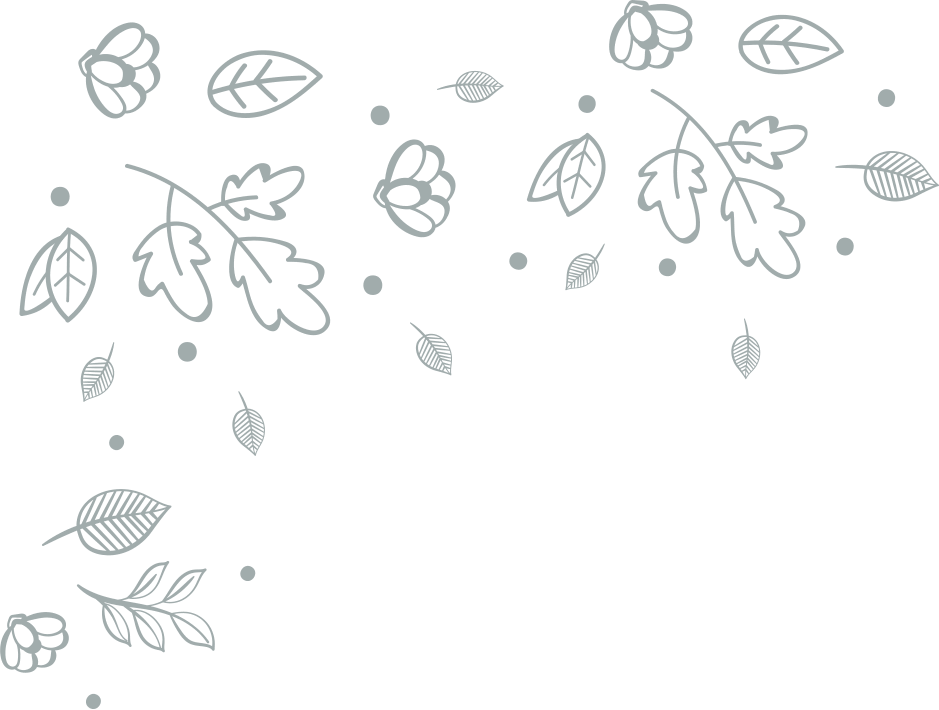
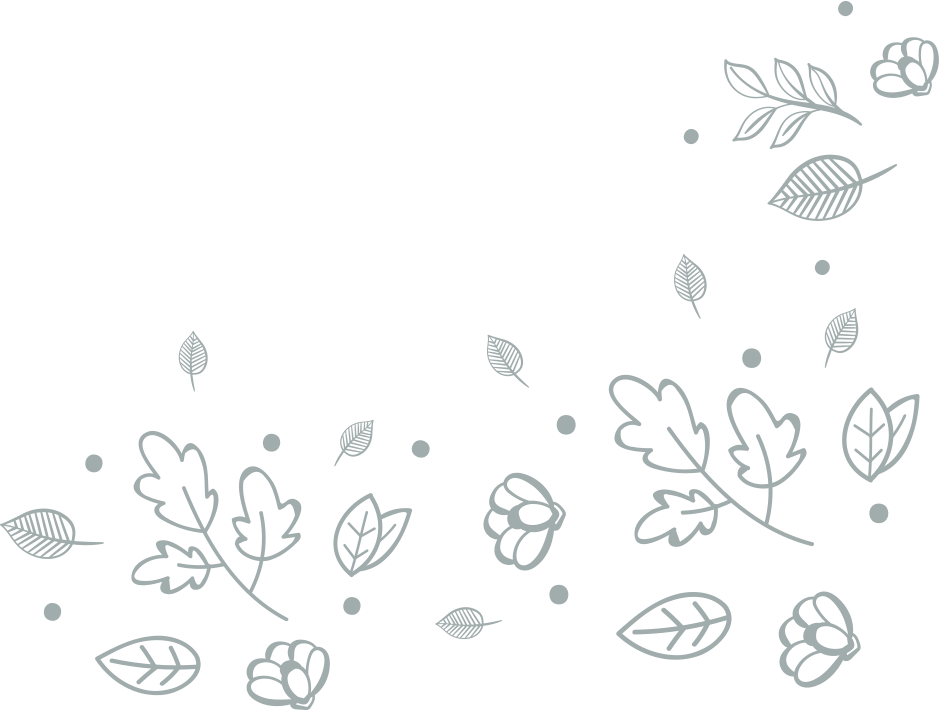
ok

diff --git a/src/recipes/SingleRecipe.css b/src/recipes/SingleRecipe.css
@@ -122,7 +122,7 @@
 }
 .shape2-bottom-left {
   top: 10%;
-  right: 65%;
+  right: 63%;
   width: 350px;
   height: 350px;
   background-image: url('../assets/Shapes/shape-11.png');
@@ -137,4 +137,15 @@
   opacity: 0.9; /* Transparency */
   position: absolute; /* Ensure it's positioned absolutely */
 }
+.shape2-bottom-right {
+  position: absolute;
+  bottom: -28%; /* Increase this value to move it down */
+  right: 17%;
+  width: 350px;
+  height: 350px;
+  background-image: url('../assets/Shapes/shape-11.png');
+  opacity: 0.7;
+  transform: rotate(180deg);
+}
+
 

diff --git a/src/recipes/SingleRecipe.jsx b/src/recipes/SingleRecipe.jsx
@@ -21,6 +21,8 @@ const SingleRecipe = () => {
       </div>
       <div className="shape shape2-top-right">
       </div>
+      <div className="shape shape2-bottom-right">
+      </div>
       <div className='w-full max-w-[1200px] mx-auto px-4 lg:px-24 mt-16'>
         <h2 className="recipe-title text-2xl font-bold">{recipe.title}</h2>
         {recipe.imageUrl && (
